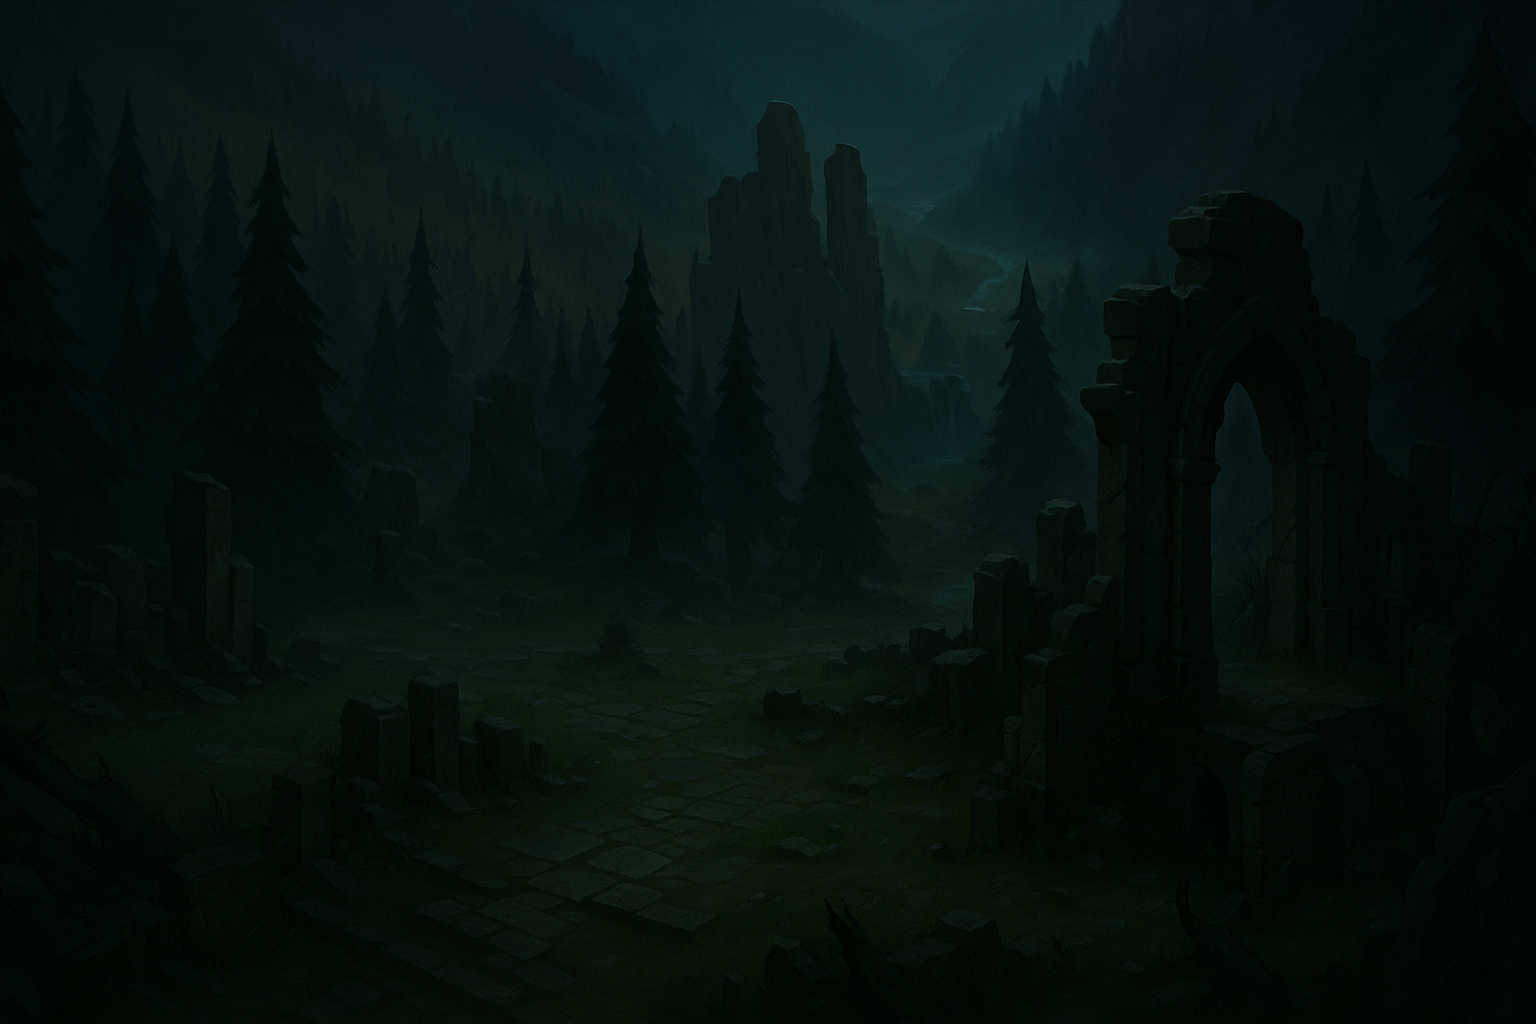
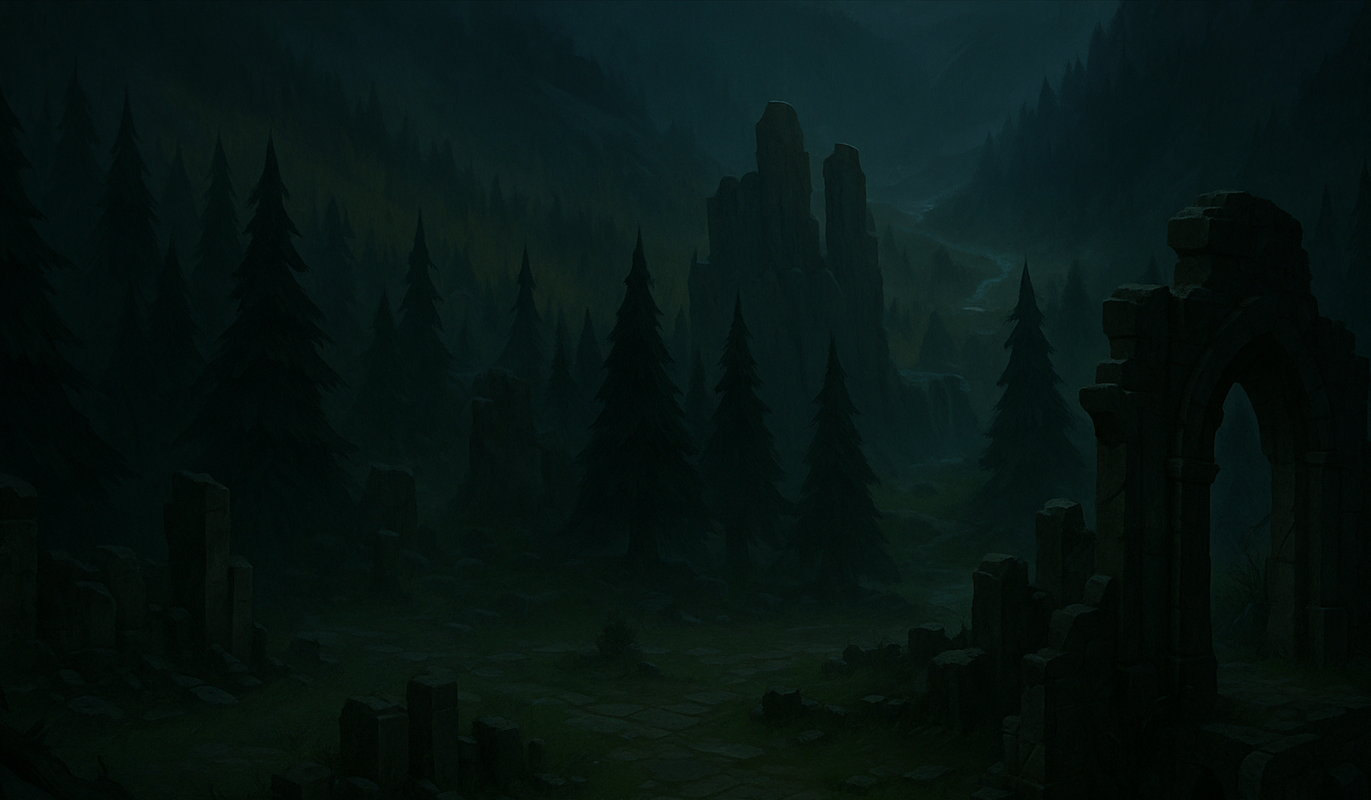
이미지 webp로 최적화, select, input에 label 씌워서 접근성 향상

diff --git a/src/App.jsx b/src/App.jsx
@@ -1,8 +1,9 @@
-import { useState, useRef, useEffect, createContext} from 'react'
-import './App.css'
-import Pick from './component/Pick'
-import Community from './component/Community'
-
+import { useState, useRef, useEffect, createContext} from 'react';
+import './App.css';
+import Pick from './component/Pick';
+import Community from './component/Community';
+import bgImgPng  from './assets/bgimg.png';
+import bgImgWebp from './assets/bgimgWebp.webp';
 export const myContext = createContext();
 
 function App() {
@@ -224,6 +225,16 @@ function App() {
     return (
     <div className='app'>
       <div className='background'>
+        
+      <picture id="bgImg">
+        {/* 브라우저가 WebP 지원 시 이걸 씀 */}
+        <source srcSet={bgImgWebp} type="image/webp" />
+        {/* 지원 안 할 때 PNG */}
+        <source srcSet={bgImgPng}  type="image/png"  />
+        {/* fallback 으로도 PNG */}
+        <img src={bgImgPng} alt="최적화된 배경"  />
+      </picture>
+        
         <myContext.Provider value={{
           summoner,
           sumPeople,
@@ -264,10 +275,12 @@ function App() {
           <Community />
           
           <button id="hideBtn" onClick={onClickHideBtn}>{hide==="hide" ? `🔒`: `🔓`}</button>
-          <select id="mode" type="text" onChange={modeChange}>
-            <option value="티어">티어</option>
-            <option value="포인트">포인트</option>
-          </select>
+          <label htmlFor="mode">
+            <select id="mode" type="text" onChange={modeChange}>
+              <option value="티어">티어</option>
+              <option value="포인트">포인트</option>
+            </select>
+          </label>
         </myContext.Provider>
         
       </div>

diff --git a/src/component/Community.jsx b/src/component/Community.jsx
@@ -4,6 +4,9 @@ import '../style/Community.css';
 import { myContext } from '../App';
 import FixedMem from "./FixedMem";
 
+import icon from '../assets/icon.jpg';
+import iconWebp from '../assets/iconWebp.webp';
+
 
 const Community = () => {
   const {onCreate, onDelete, onUpdate, summoner, allTier, allPoint, sumPeople, balanced,
@@ -177,9 +180,18 @@ const Community = () => {
         :null
       }
       <div id="comTitle">
-        <div id="comTitleImg" />
+        <picture className="comTitleImg">
+                {/* 브라우저가 WebP 지원 시 이걸 씀 */}
+                <source className="comTitleImg" srcSet={iconWebp} type="image/webp" />
+                {/* 지원 안 할 때 PNG */}
+                <source className="comTitleImg" srcSet={icon}  type="image/png"  />
+                {/* fallback 으로도 PNG */}
+                <img className="comTitleImg" src={icon} alt="최적화된 배경"  />
+              </picture>
         <div id="comTitleStateCover">
-          <input id="comTitleName" defaultValue="말년중위 김도현" />
+          <label htmlFor="comTitleName">
+            <input id="comTitleName" defaultValue="말년중위 김도현" />
+          </label>
           {/* <div id="comTitleName">말년중위 김도현</div> */}
           <div id="comTitleState">● 온라인</div>
         </div>

diff --git a/src/App.css b/src/App.css
@@ -20,15 +20,21 @@
   position: relative;
   display: flex;
   z-index: 1;
-  background-repeat: no-repeat;
-  background-size : cover;
-  background-image: url("./assets/bgimg.png");
+  
   width: 1371px;
   height: 800px;
   margin: auto auto 0 auto;   
 
 }
-
+#bgImg{
+  position: absolute;
+  z-index: -1;
+  background-repeat: no-repeat;
+  background-size : cover;
+  width: 1371px;
+  height: 800px;
+  margin: auto auto 0 auto;  
+}
 .app-footer {
   width: 1371px;    
   margin: 0 auto auto auto; 

diff --git a/src/component/Pick.jsx b/src/component/Pick.jsx
@@ -27,7 +27,9 @@ const Pick = () => {
       <div id="roomTitle">
         <div id="roomTitleFirst">
           <div id="titleImg" />
-          <input id="rooTitleWord" defaultValue="말년중위 김도현 님의 게임" />
+          <label htmlFor="rootTitleWord">
+            <input id="rooTitleWord" defaultValue="말년중위 김도현 님의 게임" />
+          </label>
         </div>
         <div id="roomSubTitle">
           <p>소환사의 협곡</p>

diff --git a/src/style/Community.css b/src/style/Community.css
@@ -11,8 +11,7 @@
   height: 68.57px;
   border-bottom: 1px solid rgba(252, 253, 224, 0.243);
   }
-  #comTitleImg {
-  background-image: url("../assets/icon.jpg");
+  .comTitleImg {
   background-size: cover;
   border-radius: 70%;
   width: 64.76px;
